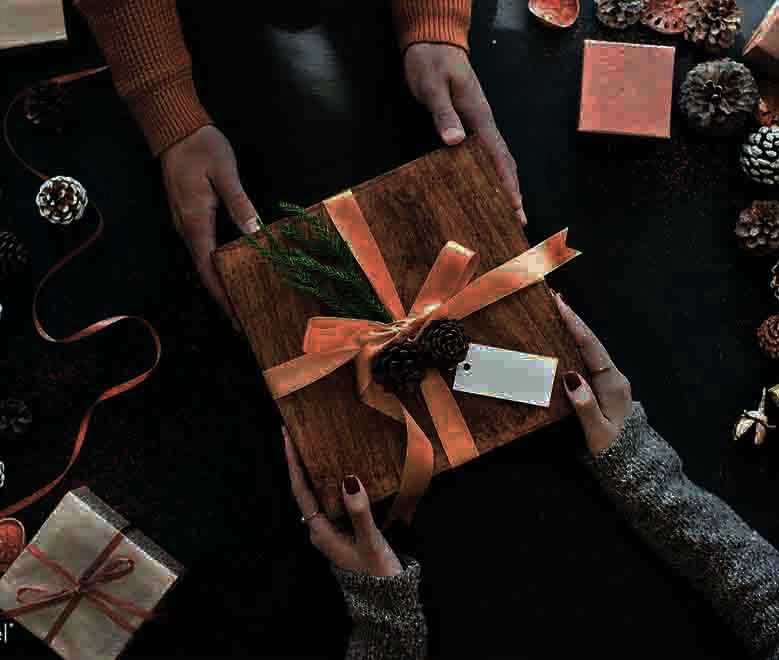
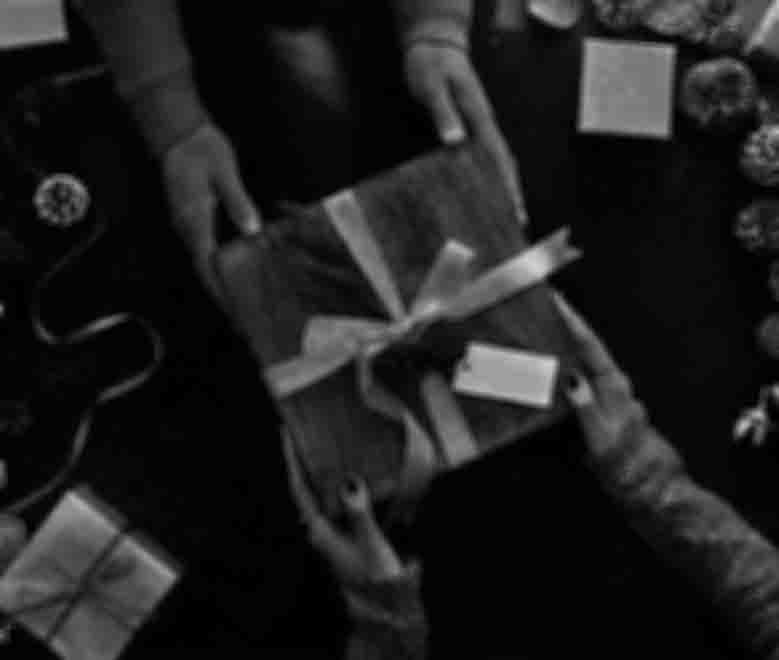
last changes
images for empties panel

diff --git a/public/css/student/dashboard/demo.css b/public/css/student/dashboard/demo.css
@@ -574,3 +574,18 @@ padding: 20px;
 .modal-dialog{
     margin-top: 200px!important;
 }
+.card-empty{
+    background-color: white;
+    border-radius: 4px;
+    box-shadow: 0 1px 2px rgba(0, 0, 0, 0.05), 0 0 0 1px rgba(63, 63, 68, 0.1);
+    background-color: #FFFFFF;
+    padding: 20px;
+    text-align: right;
+    direction: rtl;
+    margin-bottom: 30px;
+}
+.card-empty p{
+    font-size: 15px;
+    font-weight: 300;
+    color: black;
+}

diff --git a/public/css/student/dashboard/transaction.css b/public/css/student/dashboard/transaction.css
@@ -82,9 +82,16 @@ p.card-body-item-with {
 }
 
 
+.transaction-image{
+    border-radius: 19px;
+    border: solid 1px #2a9bff;
+}
 
 
-
+.transaction-image-red{
+    border-radius: 19px;
+    border: solid 1px #ff646e;
+}
 
 
 

diff --git a/resources/views/student/dashboard/transaction/transactions.blade.php b/resources/views/student/dashboard/transaction/transactions.blade.php
@@ -4,7 +4,7 @@
 
 @endsection
 @section('content')
-    <div class="row">
+    <div class="row" style="margin-top: 30px;">
         <div class="col-md-4 col-md-offset-2">
 
             <a aria-controls="purchase" data-toggle="tab" href="#purchase" id="purchase-tab" role="tab" onclick="purchaseactive()" >   <div class="card-transaction-red" >
@@ -50,17 +50,18 @@
                </a>
         </div>
     </div>
+    <hr>
     <div class="tab-content">
         <div class="tab-pane active" id="charge" role="tabpanel">
 
 
                 @if($charges->isEmpty())
-                <div class="card-transaction">
-                    <div class="col-md-4 col-md-offset-4 ">
-                    <img src="{{ asset('image/student/dashboard/empty_cart.svg') }}" width="100%" height="100%">
+                <div class="">
+                    <div class="col-md-8 col-md-offset-2 ">
+                    <img class="transaction-image" src="{{ asset('image/student/dashboard/no-order.jpg') }}" width="100%" height="100%">
 
                     </div>
-                    <h4 style="display: table-footer-group; margin-top: 10px;" class="text-center" dir="rtl">هنوز تراکنشی ثبت نشده است.</h4>
+
             </div>
                 @else
             <section class="factor row">
@@ -102,11 +103,11 @@
         </div>
         <div class="tab-pane" id="purchase" role="tabpanel">
                 @if($purchases->isEmpty())
-                <div class="card-transaction">
-                        <div class="col-md-4 col-md-offset-4 ">
-                            <img src="{{ asset('image/student/dashboard/empty_cart.svg') }}" width="100%" height="100%">
+                <div class="">
+                        <div class="col-md-8 col-md-offset-2 ">
+                            <img class="transaction-image-red" src="{{ asset('image/student/dashboard/no_orders.jpg') }}" width="100%" height="100%">
                         </div>
-                        <h4 style="display: table-footer-group; margin-top: 10px;" class="text-center" dir="rtl">هنوز تراکنشی ثبت نشده است.</h4>
+
                 </div>
                 @else
             <section class="factor row">

diff --git a/resources/views/student/dashboard/discount/discounts.blade.php b/resources/views/student/dashboard/discount/discounts.blade.php
@@ -44,7 +44,15 @@
     </style>
 @endsection
 @section('content')
+    <div class="row">
+        <div class="col-md-5 col-md-offset-4">
 
+            <div  class="card-empty">
+               <img src="{{ asset('image/student/dashboard/empty1.jpg') }}" height="100%" width="100%">
+                <p>لورم ایپسوم متن ساختگی با تولید سادگی نامفهوم از صنعت چاپ و با استفاده از طراحان گرافیک است.</p>
+            </div>
+        </div>
+    </div>
 
 <div class="row">
     <div class="col-md-12">
